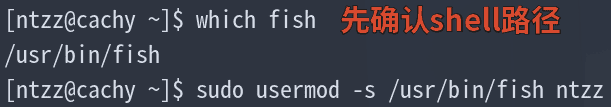
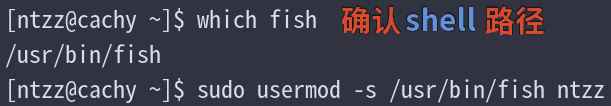
为Linux用户和组中心实现了将用户从附加组删除的逻辑

diff --git a/public/Interactive-Hub/Linux-User-Group/Linux-User-Group.js b/public/Interactive-Hub/Linux-User-Group/Linux-User-Group.js
@@ -2105,7 +2105,7 @@ const 命令高亮层 = document.getElementById("命令高亮层");
 const 命令输入区 = document.querySelector(".命令输入区");
 
 function 高亮命令语法(文本) {
-  const 有效命令组 = ["cd", "mkdir", "rmdir", "rm", "touch", "cp", "mv", "chmod", "chown", "useradd", "su", "usermod", "userdel", "groupdel"];
+  const 有效命令组 = ["cd", "mkdir", "rmdir", "rm", "touch", "cp", "mv", "chmod", "chown", "useradd", "su", "usermod", "userdel", "groupdel", "gpasswd"];
   const 转义 = (s) => s.replace(/&/g, "&amp;").replace(/</g, "&lt;").replace(/>/g, "&gt;");
   // 路径中的特殊字符用单独颜色高亮
   const 转义路径 = (s) =>
@@ -2317,19 +2317,19 @@ function 解析命令(输入) {
   // 统一展开参数开头的 ~ 为主目录绝对路径，让所有命令都能识别 ~
   const 参数组 = 部分组.slice(1).map(展开主目录路径);
 
-  const 有效命令组 = ["cd", "mkdir", "rmdir", "rm", "touch", "cp", "mv", "chmod", "chown", "useradd", "su", "usermod", "userdel", "groupdel"];
+  const 有效命令组 = ["cd", "mkdir", "rmdir", "rm", "touch", "cp", "mv", "chmod", "chown", "useradd", "su", "usermod", "userdel", "groupdel", "gpasswd"];
   if (!有效命令组.includes(命令)) {
     return {
       有效: false,
       错误: {
         有错误: true,
-        消息: `未知命令：${命令}\n支持：cd / mkdir / rmdir / rm / touch / cp / mv / chmod / chown / useradd / su / usermod / userdel / groupdel（可加 sudo 前缀提权）`,
+        消息: `未知命令：${命令}\n支持：cd / mkdir / rmdir / rm / touch / cp / mv / chmod / chown / useradd / su / usermod / userdel / groupdel / gpasswd（可加 sudo 前缀提权）`,
       },
     };
   }
 
   // 需要 root 提权的管理类命令：未加 sudo 时直接报错
-  const 需提权命令组 = ["chown", "useradd", "usermod", "userdel", "groupdel"];
+  const 需提权命令组 = ["chown", "useradd", "usermod", "userdel", "groupdel", "gpasswd"];
   if (需提权命令组.includes(命令) && !提权) {
     return { 有效: false, 错误: { 有错误: true, 消息: `${命令}：权限不足\n该命令需要 root 权限，请使用 sudo` } };
   }
@@ -3199,6 +3199,32 @@ function 解析命令(输入) {
       if (!面板组组.some((g) => g.名称 === 名称)) return { 有效: false, 错误: { 有错误: true, 消息: `groupdel：组不存在：${名称}` } };
       return 包装({ 有效: true, 命令: "groupdel", 组名: 名称 });
     }
+
+    case "gpasswd": {
+      // 支持：gpasswd -d <用户名> <组名>（将用户从附加组中删除）
+      let 删除用户 = null;
+      let 组名 = null;
+      for (let i = 0; i < 参数组.length; i++) {
+        const 参数 = 参数组[i];
+        if (参数 === "-d") {
+          const 值 = 参数组[++i];
+          if (!值) return { 有效: false, 错误: { 有错误: true, 消息: "gpasswd：-d 需要指定用户名\n用法：gpasswd -d <用户名> <组名>" } };
+          删除用户 = 值;
+        } else if (参数.startsWith("-")) {
+          return { 有效: false, 错误: { 有错误: true, 消息: `gpasswd：无效参数 ${参数}\n支持：-d（将用户从附加组中删除）` } };
+        } else if (!组名) {
+          组名 = 参数;
+        } else {
+          return { 有效: false, 错误: { 有错误: true, 消息: "gpasswd：参数过多\n用法：gpasswd -d <用户名> <组名>" } };
+        }
+      }
+      if (!删除用户) return { 有效: false, 错误: { 有错误: true, 消息: "gpasswd：缺少 -d 参数\n用法：gpasswd -d <用户名> <组名>" } };
+      if (!组名) return { 有效: false, 错误: { 有错误: true, 消息: "gpasswd：缺少组名\n用法：gpasswd -d <用户名> <组名>" } };
+      const 用户 = 面板用户组.find((u) => u.名称 === 删除用户);
+      if (!用户) return { 有效: false, 错误: { 有错误: true, 消息: `gpasswd：用户不存在：${删除用户}` } };
+      if (!面板组组.some((g) => g.名称 === 组名)) return { 有效: false, 错误: { 有错误: true, 消息: `gpasswd：组不存在：${组名}` } };
+      return 包装({ 有效: true, 命令: "gpasswd", 用户, 组名 });
+    }
   }
 }
 
@@ -3436,6 +3462,10 @@ function 执行命令() {
     }
     case "groupdel": {
       执行groupdel(解析.组名);
+      break;
+    }
+    case "gpasswd": {
+      执行gpasswd(解析.用户, 解析.组名);
       break;
     }
   }
@@ -4381,6 +4411,23 @@ function 执行groupdel(组名) {
 
   同步用户组界面();
   if (警告) 显示警告(警告);
+}
+
+// gpasswd -d：将用户从附加组中删除
+function 执行gpasswd(用户, 组名) {
+  // 目标组是用户的主组：报错（主组不能通过 -d 删除）
+  if (用户.主组 === 组名) {
+    显示错误(`gpasswd：无法将用户 ${用户.名称} 从组 ${组名} 中删除：该组是用户的主组`);
+    return;
+  }
+  // 用户不在该附加组中：给出警告提示
+  if (!用户.附加组组.includes(组名)) {
+    显示警告(`gpasswd：用户 ${用户.名称} 不在组 ${组名} 中，无需删除`);
+    return;
+  }
+  用户.附加组组 = 用户.附加组组.filter((g) => g !== 组名);
+  同步用户组界面();
+  显示成功(`已将用户 ${用户.名称} 从组 ${组名} 中删除`);
 }
 
 // ==================== 历史记录 ====================
